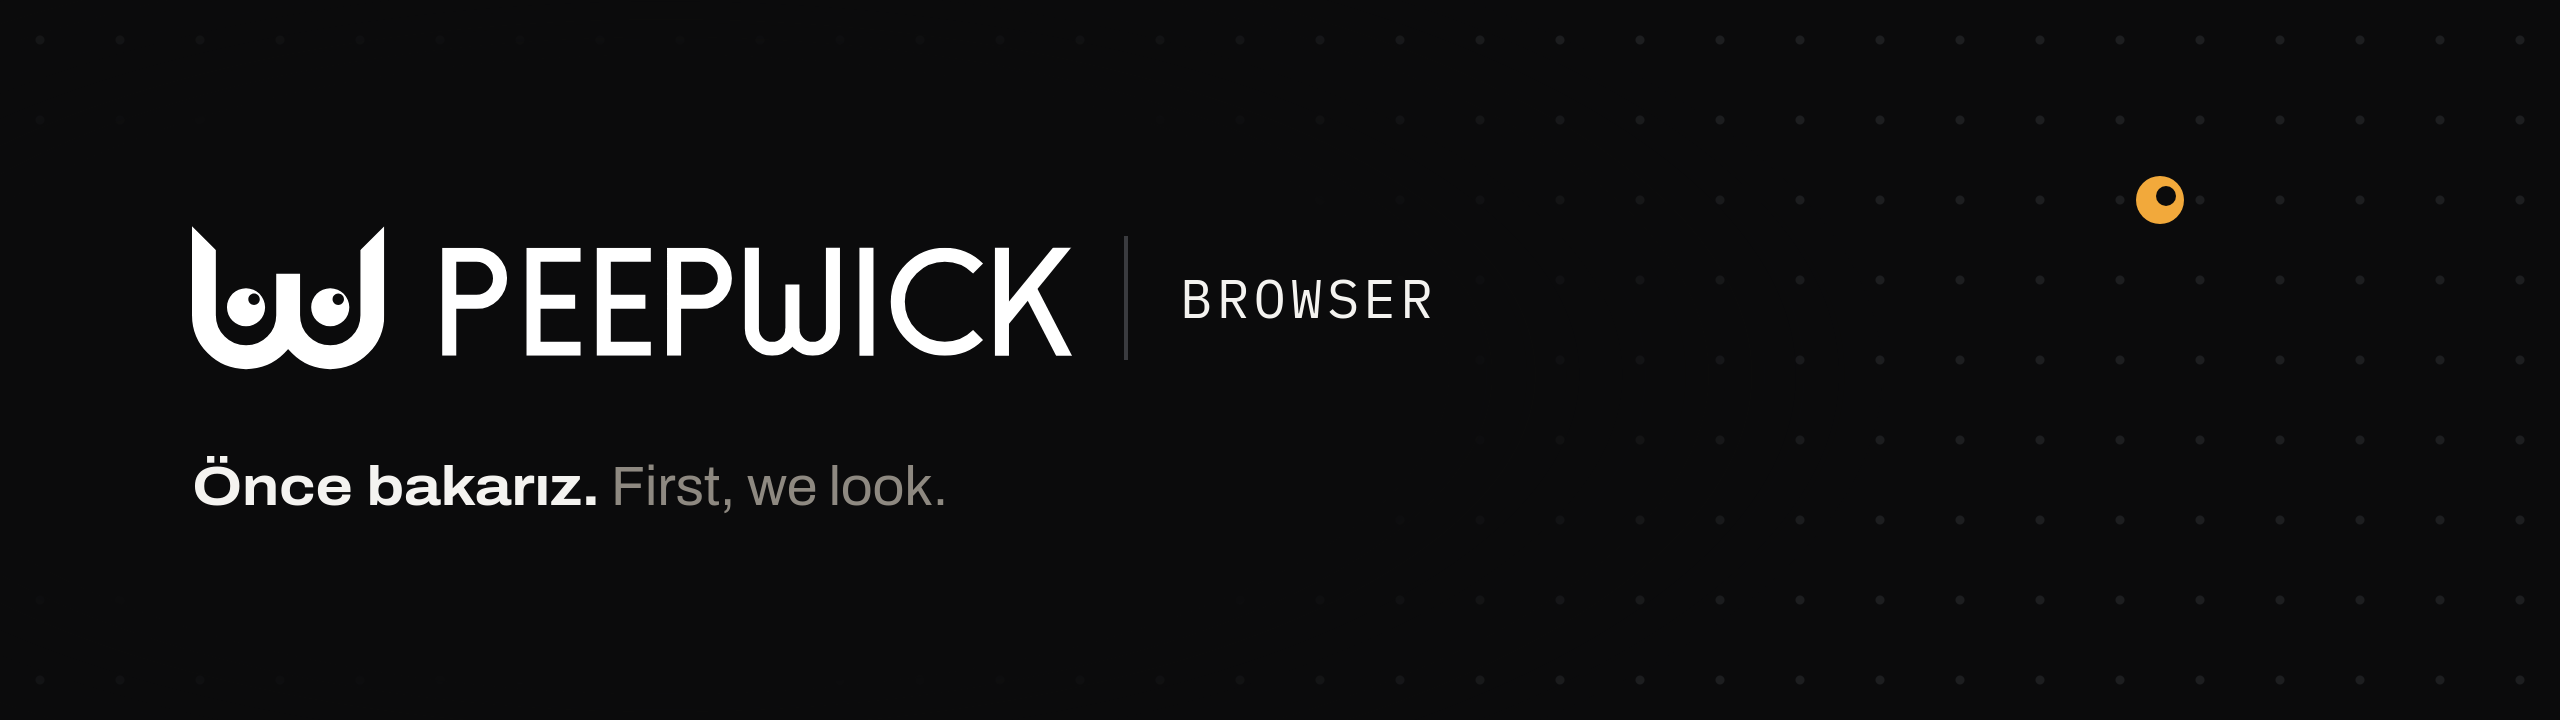
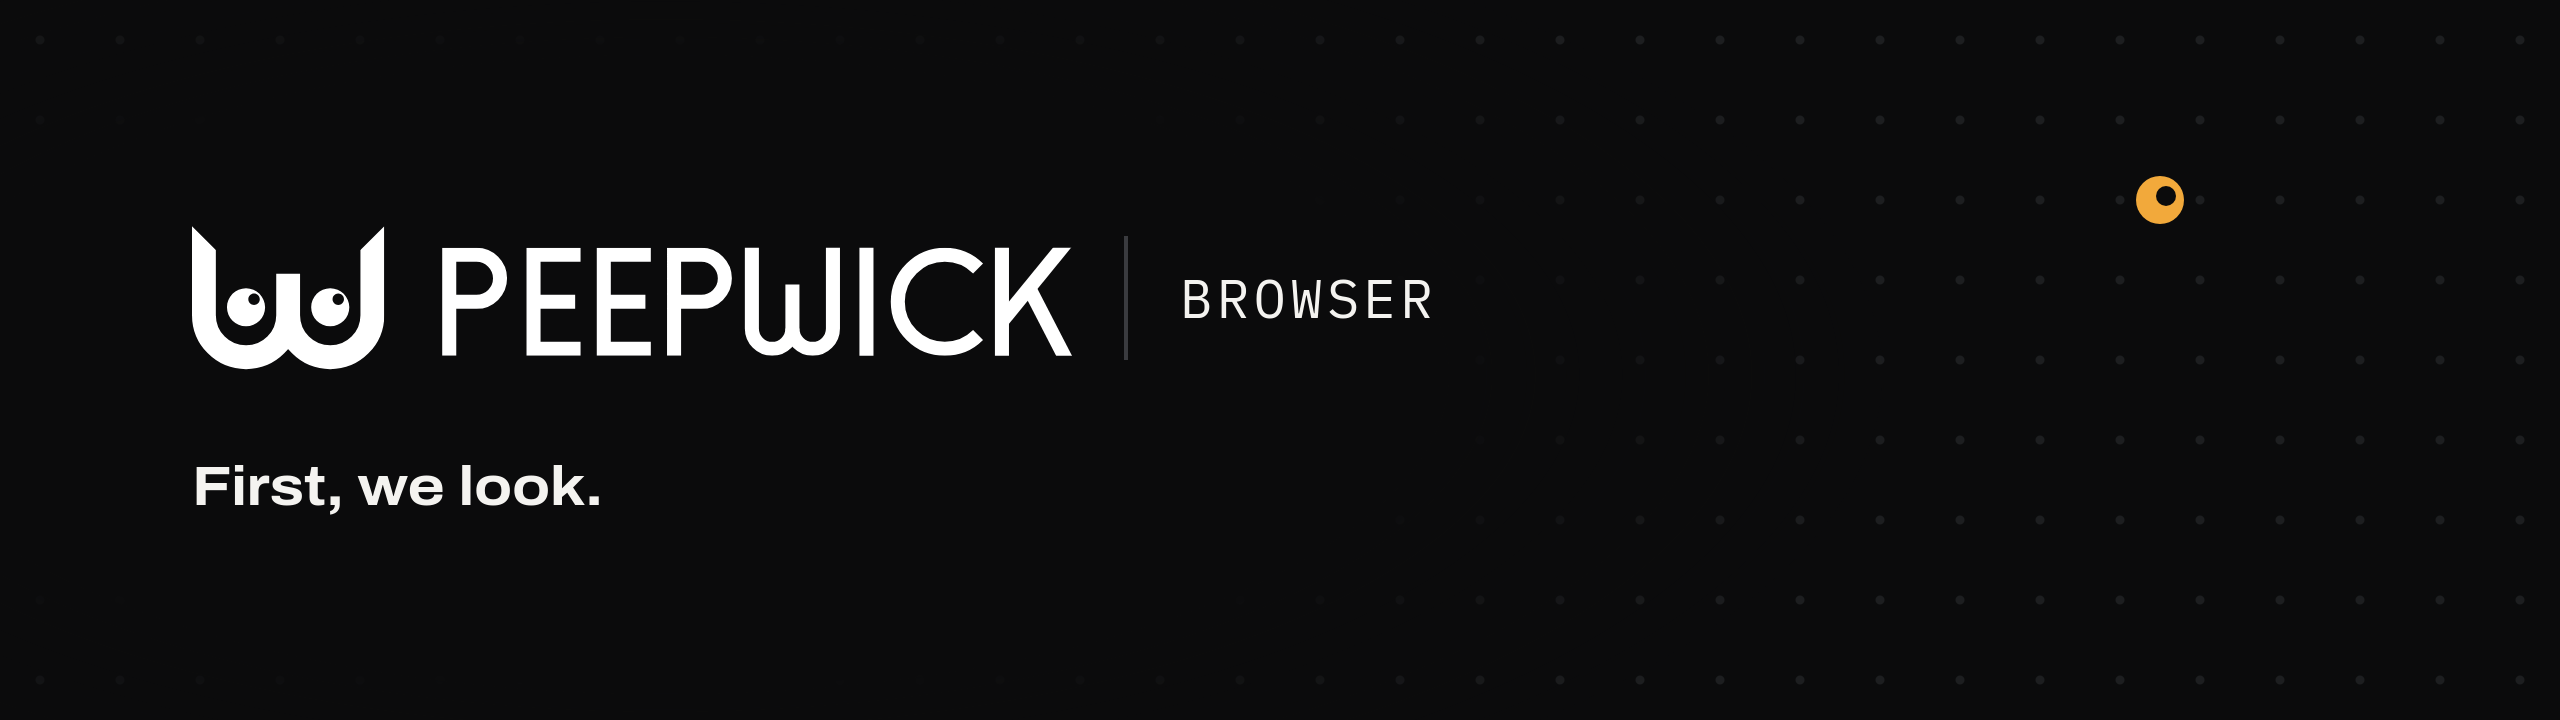
README in English only
Turkish stays in the release notes. The banners and the social preview
card now carry "First, we look." alone, and banners.html draws the card
too (?card=social).

Changed region(s): [[0.0625, 0.6417, 0.375, 0.7028]]

diff --git a/docs/brand/banners.html b/docs/brand/banners.html
@@ -1,14 +1,15 @@
 <!doctype html>
 <!--
-  The README banners: the PEEPWICK lockup (brand book §15) over the crowd pattern (§11).
-  ?line=BROWSER adds the descriptor; ?theme=light draws the light version.
+  The README banners and the social preview card: the PEEPWICK lockup (brand book §15) over
+  the crowd pattern (§11). ?line=BROWSER adds the descriptor, ?theme=light draws the light
+  version and ?card=social the 1280 × 640 card for the repository's social preview.
 
   Serve the repository root (python3 -m http.server 8770 --bind 127.0.0.1), open
   http://127.0.0.1:8770/docs/brand/banners.html?line=BROWSER in the development harness and
   save it with {"do":"snapshot","name":"banner-dark"}: the page is drawn at twice its size,
-  2560 × 720.
+  2560 × 720 (2560 × 1280 for the card).
 -->
-<html lang="tr">
+<html lang="en">
 <head>
 <meta charset="utf-8">
 <title>PEEPWICK banners</title>
@@ -30,17 +31,26 @@ body { margin: 0; width: 1280px; height: 360px; position: relative; overflow: hi
 .descriptor { font-family: Plex; font-size: 27px; letter-spacing: 0.08em; color: var(--ink); }
 .line { position: absolute; left: 96px; top: 228px; font-size: 28px; color: var(--quiet); letter-spacing: -0.005em; }
 .line b { color: var(--ink); font-weight: 700; font-stretch: 112%; }
+:root.card body { height: 640px; }
+.card .veil { background: radial-gradient(ellipse 70% 80% at 28% 55%, var(--ground) 45%, transparent 75%); }
+.card .eye { left: 1028px; top: 128px; }
+.card .lockup { top: 228px; gap: 28px; }
+.card .lockup svg { width: 520px; }
+.card .rule { height: 72px; }
+.card .descriptor { font-size: 30px; }
+.card .line { top: 388px; font-size: 30px; }
 </style>
 </head>
 <body>
 <div class="veil"></div>
 <div class="eye"></div>
 <div class="lockup"></div>
-<div class="line"><b>Önce bakarız.</b> First, we look.</div>
+<div class="line"><b>First, we look.</b></div>
 <script>
 const query = new URLSearchParams(location.search)
 const light = query.get('theme') === 'light'
 document.documentElement.classList.toggle('light', light)
+document.documentElement.classList.toggle('card', query.get('card') === 'social')
 fetch('/build/brand/peepwick-logo-yatay-beyaz.svg')
   .then((response) => response.text())
   .then((svg) => {

diff --git a/README.md b/README.md
@@ -1,7 +1,7 @@
 <p align="center">
   <picture>
     <source media="(prefers-color-scheme: dark)" srcset="docs/brand/banner-dark.png">
-    <img src="docs/brand/banner-light.png" alt="PEEPWICK Browser · Önce bakarız. First, we look." width="100%">
+    <img src="docs/brand/banner-light.png" alt="PEEPWICK Browser · First, we look." width="100%">
   </picture>
 </p>
 
@@ -15,8 +15,6 @@
   <a href="#keyboard-shortcuts">Shortcuts</a>
   &nbsp;·&nbsp;
   <a href="#build-from-source">Build from source</a>
-  &nbsp;·&nbsp;
-  <a href="#türkçe">Türkçe</a>
 </p>
 
 <p align="center"><sub>ALPHA · LINUX · OPEN SOURCE · GPL-3.0</sub></p>
@@ -212,8 +210,8 @@ already installed.
   (`src-tauri/scripts`), one in the page's own world and one in a world of its own.
 - Updates come through Tauri's updater; packages are checked against a minisign signature that has
   to name the version the update list announces.
-- `src/renderer`: the interface in React, styled with the PEEPWICK brand tokens: Gece, Beyaz, warm
-  greys and one Fitil amber accent; Archivo, Newsreader and IBM Plex Mono.
+- `src/renderer`: the interface in React, styled with the PEEPWICK brand tokens: near-black and
+  white, warm greys and a single amber accent; Archivo, Newsreader and IBM Plex Mono.
 - `src/shared`: types, the contract between the interface and Rust, and the translations. The Rust
   side builds the same dictionaries in.
 
@@ -229,176 +227,3 @@ The PEEPWICK name and the Double-Eye W mark identify PEEPWICK and are not part o
 If you distribute a modified version, please give it your own name and icon.
 
 PEEPWICK Browser is made by [PEEPWICK](https://github.com/PEEPWICK). First, we look.
-
----
-
-## Türkçe
-
-<h3 align="center">Dikkatinizi koruyan tarayıcı.</h3>
-
-<p align="center">
-  <a href="https://github.com/PEEPWICK/peepwick-browser/releases/tag/v0.2.1a"><b>Linux için indirin</b></a>
-  &nbsp;·&nbsp;
-  <a href="#tarayıcı-neyi-nereye-gönderir">Gizlilik</a>
-  &nbsp;·&nbsp;
-  <a href="#klavye-kısayolları">Kısayollar</a>
-  &nbsp;·&nbsp;
-  <a href="#kaynaktan-derleme">Kaynaktan derleme</a>
-</p>
-
-Günümüzün büyük kısmı bir tarayıcıda geçiyor ve internetin çoğu dikkatinizi dağıtmak için
-kurulmuş. PEEPWICK Browser reklamları ve izleyicileri ayıklar, işinizi ve kendinize ayırdığınız
-zamanı ayrı alanlarda tutar ve sessiz kalır: siyah-beyaz, sakin bir çerçeve; gezdiğiniz sayfalar
-kendi renkleriyle kalır.
-
-Rust ve [Tauri](https://tauri.app/) ile yazıldı; sayfaları GNOME Web'in motoru
-[WebKitGTK](https://webkitgtk.org/) çiziyor.
-
-### Sakin bir çerçeve
-
-- **Alanlar ve dikey sekmeler.** Sekmeler kenar çubuğunda, iş ve kişisel gibi alanlarda durur.
-  Sabitleyin, alanlar arasında taşıyın, iki sekmeyi yan yana açın; kullanmadıklarınız uyusun.
-  Tarayıcıyı kapattığınızda her şey bir sonraki açılışta geri gelir: pencereler, alanlar ve
-  sekmeler, her sekme ileri ve geri geçmişiyle.
-- **Her şey için tek çubuk.** Adres çubuğu geçmişinizden, yer imlerinizden ve açık sekmelerinizden
-  öneri getirir. <kbd>Ctrl</kbd>+<kbd>K</kbd> komutlar, sekmeler ve yer imleri için komut
-  çubuğunu açar. DuckDuckGo, Brave Search, Startpage, Google, Ecosia ya da Bing ile arayın; arama
-  motorunuzun önerileri yalnızca siz açarsanız gelir.
-- **Yer imleri.** Klasörlü yer imi çubuğu; arama, sürükle-bırak ve geri alma özellikli yer imi
-  yöneticisi; adres çubuğundaki yıldız (<kbd>Ctrl</kbd>+<kbd>D</kbd>). Yer imlerinizi her
-  tarayıcının dışa aktardığı HTML dosyasıyla getirin, aynı yolla yanınızda götürün.
-- **Kendi sayfaları da aynı sakinlikte.** Yeni sekme sayfası en sık ziyaret ettiğiniz siteleri
-  gösterir; geçmiş, indirmeler, yer imleri ve ayarlar aynı çerçevede durur. Türkçe ya da İngilizce;
-  koyu, açık ya da sisteminizin teması.
-
-### Varsayılan olarak gizli
-
-- **Kalkan.** Reklamlar ve izleyiciler EasyList ve EasyPrivacy listeleriyle engellenir; listeler
-  WebKit'in kendi içerik engelleme kurallarına çevrilir. Bir site gerektirirse kalkanı yalnızca o
-  site için kapatın.
-- **Parmak izi koruması.** Canvas, WebGL ve ses değerlerine her site ve her oturum için farklı,
-  fark edilmeyecek kadar küçük değişiklikler katılır. Ekran kartı modeli gizlenir, işlemci sayısı
-  yuvarlanır; siteler sizi bir siteden ötekine tanıyamaz.
-- **Çerez bildirimlerine "hayır".** Yaygın onay araçlarından bir bildirim çıktığında "Reddet"
-  düğmesine sizin yerinize basılır.
-- **Üçüncü taraf çerezler engelli,** WebKit'in akıllı izleme önleme özelliği açık.
-- **Gizli pencereler** diske hiçbir şey yazmaz; verileri son gizli pencereyle birlikte silinir.
-- **Telemetri yok, hesap yok.** Tarayıcı onu nasıl kullandığınızı ölçmez. Neyi nereye gönderdiği
-  [aşağıda](#tarayıcı-neyi-nereye-gönderir).
-
-### Görünür güvenlik
-
-- **Site bilgileri.** Adres çubuğunun solundaki düğme bağlantının güvenli olup olmadığını gösterir.
-  Açınca sertifikayı (veren kuruluş, kapsadığı alan adları, geçerlilik, parmak izleri, zincir),
-  sitenin izinlerini ve çerezlerini görür, sitenin sakladıklarını silebilirsiniz.
-- **HTTPS-Only.** Siteler şifreli bağlantıyla açılır. Güvenli sürümü olmayan bir sitede tarayıcı
-  HTTP ile devam etmeden önce size sorar. Kendi ağınızdaki adresler etkilenmez.
-- **Sertifika uyarıları.** Sertifikasında sorun olan bir sayfa, siz karar verene kadar bir
-  uyarının arkasında bekler.
-- **Site izinleri.** Konum, kamera, mikrofon ve bildirim izinleri sayfanın üstünde sorulur, hiçbiri
-  sessizce verilmez. Yanıtlar site başına hatırlanabilir, Ayarlar'dan değiştirilir.
-- **İmzalı güncellemeler.** Tarayıcı açılışta ve dört saatte bir yeni sürüme bakar, arka planda
-  indirir ve yeniden başlattığınızda kurar. İmzası tutmayan hiçbir şeyi kurmaz.
-
-### Her gün işinize yarayanlar
-
-İlerleme ve hız gösteren indirmeler: açma, klasörde gösterme, yeniden deneme, çöp kutusuna taşıma;
-klasörü seçin ya da her dosyada nereye kaydedileceği sorulsun. Varsayılan yakınlaştırma ve yazı
-boyutuyla site başına yakınlaştırma. Sayfada bulma, yazdırma, sayfayı tek bir .mhtml dosyası olarak
-kaydetme ve Web Denetçisi (<kbd>F12</kbd>). Metin alanlarında yazım önerileri. Başka
-uygulamalardan açılan bağlantılar en son kullandığınız pencerede yeni sekmede açılır; ikinci bir
-açılış aynı profille ikinci bir tarayıcı başlatmaz.
-
-### Kurulum
-
-En yeni sürümü, **0.2.1a**'yı
-[sürüm sayfasından](https://github.com/PEEPWICK/peepwick-browser/releases/tag/v0.2.1a) indirin:
-
-- **AppImage**, her dağıtım için; kendi WebKitGTK ve GStreamer'ını taşır:
-
-  ```bash
-  chmod +x peepwick-browser-0.2.1a-x86_64.AppImage
-  ./peepwick-browser-0.2.1a-x86_64.AppImage
-  ```
-
-- **.deb**, Ubuntu, Debian, Zorin, Mint ve benzerleri için. Sistemdeki WebKitGTK'yı kullandığı için
-  paket yaklaşık 5 MB:
-
-  ```bash
-  sudo apt install ./peepwick-browser-0.2.1a-amd64.deb
-  ```
-
-İkisi de kendini günceller: AppImage kendi dosyasını yeniler, .deb ise tarayıcıyı yeniden
-başlattığınızda parolanızı sistem penceresinden sorar.
-
-PEEPWICK Browser alpha aşamasında. Her sürümün notlarında neyin değiştiği ve bilinen sorunlar yazar.
-Bir şey beklediğiniz gibi çalışmazsa
-[bize yazın](https://github.com/PEEPWICK/peepwick-browser/issues/new?template=bug_report.yml).
-
-Tarayıcı verilerini `~/.local/share/com.peepwick.browser`, önbelleğini
-`~/.cache/com.peepwick.browser` klasöründe tutar.
-
-### Klavye kısayolları
-
-| Kısayol | İşlev |
-| --- | --- |
-| <kbd>Ctrl</kbd>+<kbd>T</kbd> / <kbd>Ctrl</kbd>+<kbd>W</kbd> | Yeni sekme / sekmeyi kapat |
-| <kbd>Ctrl</kbd>+<kbd>Shift</kbd>+<kbd>T</kbd> | Kapatılan sekmeyi yeniden aç |
-| <kbd>Ctrl</kbd>+<kbd>Tab</kbd> / <kbd>Ctrl</kbd>+<kbd>Shift</kbd>+<kbd>Tab</kbd> | Sonraki / önceki sekme |
-| <kbd>Ctrl</kbd>+<kbd>1</kbd>…<kbd>9</kbd> | Sekmeye git |
-| <kbd>Alt</kbd>+<kbd>1</kbd>…<kbd>9</kbd> | Alana git |
-| <kbd>Ctrl</kbd>+<kbd>L</kbd> | Adres çubuğu |
-| <kbd>Ctrl</kbd>+<kbd>K</kbd> | Komut çubuğu |
-| <kbd>Ctrl</kbd>+<kbd>B</kbd> | Kenar çubuğunu göster ya da gizle |
-| <kbd>Ctrl</kbd>+<kbd>Shift</kbd>+<kbd>S</kbd> | Önceki sekmeyle yan yana |
-| <kbd>Ctrl</kbd>+<kbd>D</kbd> | Sayfayı yer imlerine ekle |
-| <kbd>Ctrl</kbd>+<kbd>Shift</kbd>+<kbd>D</kbd> | Alandaki tüm sekmeleri yer imlerine ekle |
-| <kbd>Ctrl</kbd>+<kbd>Shift</kbd>+<kbd>B</kbd> | Yer imi çubuğunu göster ya da gizle |
-| <kbd>Ctrl</kbd>+<kbd>Shift</kbd>+<kbd>O</kbd> | Yer imi yöneticisi |
-| <kbd>Ctrl</kbd>+<kbd>F</kbd> | Sayfada bul |
-| <kbd>Ctrl</kbd>+<kbd>H</kbd> / <kbd>Ctrl</kbd>+<kbd>J</kbd> | Geçmiş / indirmeler |
-| <kbd>Ctrl</kbd>+<kbd>S</kbd> / <kbd>Ctrl</kbd>+<kbd>P</kbd> | Sayfayı kaydet / yazdır |
-| <kbd>Ctrl</kbd>+<kbd>=</kbd> / <kbd>Ctrl</kbd>+<kbd>-</kbd> / <kbd>Ctrl</kbd>+<kbd>0</kbd> | Yakınlaştır / uzaklaştır / sıfırla |
-| <kbd>Ctrl</kbd>+<kbd>N</kbd> / <kbd>Ctrl</kbd>+<kbd>Shift</kbd>+<kbd>N</kbd> | Yeni pencere / gizli pencere |
-| <kbd>F11</kbd> / <kbd>F12</kbd> | Tam ekran / Web Denetçisi |
-
-Kiril, Yunan ya da başka bir klavye düzenine geçtiğinizde de kısayollar çalışmaya devam eder.
-
-### Tarayıcı neyi nereye gönderir?
-
-Telemetri yok, hesap yok. Tarayıcı kendiliğinden yalnızca şu hizmetlere bağlanır:
-
-| Hizmet | Neden | Ne zaman |
-| --- | --- | --- |
-| `easylist.to` | Kalkanın filtre listeleri | İlk açılışta, sonra üç günde bir |
-| `raw.githubusercontent.com` | Güncelleme listesi: en yeni sürüm ve imzaları | Açılıştan 15 saniye sonra, sonra dört saatte bir |
-| `github.com` (Releases) | Güncellemeyi indirmek | Yalnızca yeni sürüm olduğunda |
-| Arama motorunuz | Arama önerileri | Yalnızca önerileri açarsanız (varsayılan olarak kapalı) |
-
-Gezdiğiniz sayfalar her tarayıcıda olduğu gibi yüklenir; WebKit simgelerini de onlarla birlikte
-alır. "Resmi kopyala" resmi kendi sitesinden yeniden indirir. İzin verdiğiniz sitelerin
-bildirimleri masaüstünüzün bildirim hizmetinden geçer.
-
-### Kaynaktan derleme
-
-Gerekenler ve komutlar yukarıdaki [Build from source](#build-from-source) bölümünde; sürüm
-yayınlama adımları [Releasing](#releasing) bölümünde. Kısaca:
-
-```bash
-npm ci && npm run build
-npm run release -- patch
-git push --follow-tags
-```
-
-Etiket gönderildiğinde **Release** iş akışı .deb ve AppImage paketlerini derler,
-`TAURI_SIGNING_PRIVATE_KEY` gizli değişkeniyle imzalar, GitHub'da yayınlar ve güncelleme listesini
-(`latest.json`) `updates` dalına yazar. İmza anahtarının bir kopyasını güvenli bir yerde saklayın:
-o olmadan kurulu kopyalara güncelleme ulaşamaz.
-
-### Lisans
-
-PEEPWICK Browser, [GNU Genel Kamu Lisansı v3.0](LICENSE) ile yayınlanan özgür bir yazılımdır.
-PEEPWICK adı ve Çift Göz W işareti GPL kapsamında değildir; değiştirilmiş bir sürüm dağıtırsanız
-kendi ad ve simgenizi kullanın.
-
-PEEPWICK Browser'ı [PEEPWICK](https://github.com/PEEPWICK) yapıyor. Önce bakarız.
